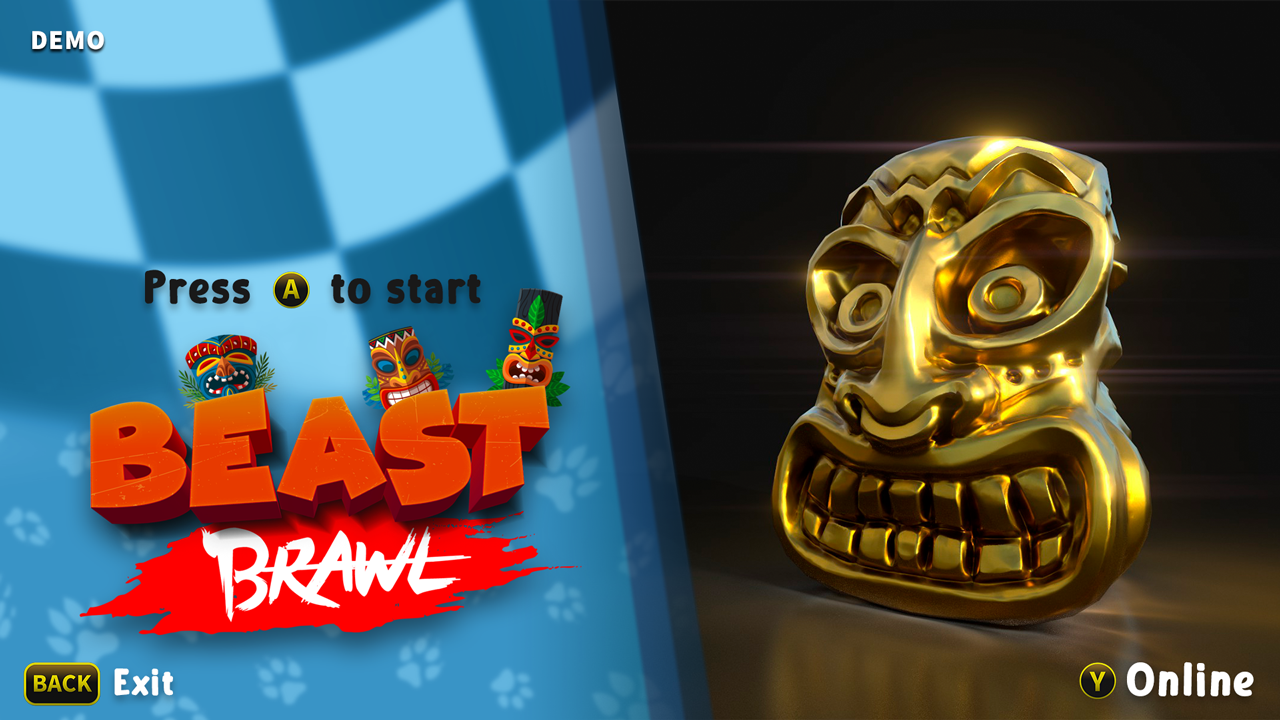
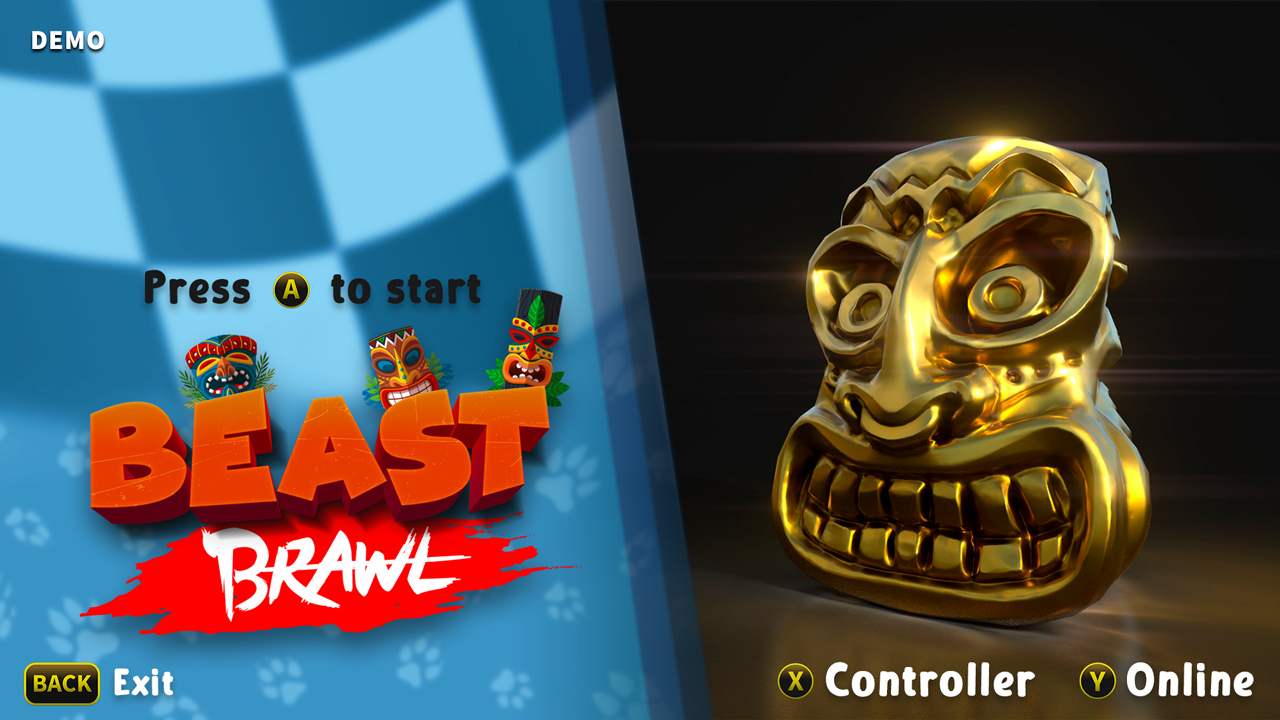
v0.97 - Mini cambios Valencia

Changed region(s): [[0.5938, 0.9167, 0.8125, 0.9778]]

diff --git a/src/Facade/Render/RenderFacadeIrrlicht.cpp b/src/Facade/Render/RenderFacadeIrrlicht.cpp
@@ -102,6 +102,11 @@ void RenderFacadeIrrlicht::FacadeInitMenu() {
     driver->makeColorKeyTexture(menuBG, core::position2d<s32>(0, 0));
 }
 
+void RenderFacadeIrrlicht::FacadeInitControler() {
+    controlerBG = driver->getTexture("media/controller_scheme.png");
+    driver->makeColorKeyTexture(controlerBG, core::position2d<s32>(0, 0));
+}
+
 void RenderFacadeIrrlicht::FacadeInitPause() {
     pauseBG = driver->getTexture("media/pause_screen.png");
     driver->makeColorKeyTexture(pauseBG, core::position2d<s32>(0, 0));
@@ -317,7 +322,7 @@ const uint16_t RenderFacadeIrrlicht::FacadeAddObject(Entity* entity) {
         node->setPosition(core::vector3df(cTransformable->position.x, cTransformable->position.y, cTransformable->position.z));
         node->setRotation(core::vector3df(cTransformable->rotation.x, cTransformable->rotation.y, cTransformable->rotation.z));
         node->setScale(core::vector3df(cTransformable->scale.x, cTransformable->scale.y, cTransformable->scale.z));
-		//node->setMaterialTexture(0, driver->getTexture(path.c_str()));  //Obligado incluir el c_str() si no irrlicht no carga solo con un string
+        //node->setMaterialTexture(0, driver->getTexture(path.c_str()));  //Obligado incluir el c_str() si no irrlicht no carga solo con un string
         node->setMaterialFlag(video::EMF_LIGHTING, false);
 
         
@@ -819,6 +824,9 @@ void RenderFacadeIrrlicht::FacadeCheckInputMenu() {
     } else if ((receiver.IsKeyDown(KEY_KEY_M) || receiver.GetJoyStickState().IsButtonPressed(InputXBox::BUTTON_Y)) && !IsInputPressed(InputXBox::BUTTON_Y)) {
         smgr->clear();
         EventManager::GetInstance().AddEventMulti(Event{EventType::STATE_LOBBYMULTI});
+    }else if ((receiver.IsKeyDown(KEY_KEY_U) || receiver.GetJoyStickState().IsButtonPressed(InputXBox::BUTTON_X)) && !IsInputPressed(InputXBox::BUTTON_X)) {
+        smgr->clear();
+        EventManager::GetInstance().AddEventMulti(Event{EventType::STATE_CONTROLS});
     }
 
     if(!(receiver.IsKeyDown(KEY_SPACE) || receiver.GetJoyStickState().IsButtonPressed(InputXBox::BUTTON_A)))
@@ -827,7 +835,29 @@ void RenderFacadeIrrlicht::FacadeCheckInputMenu() {
         SetValueInput(InputXBox::BUTTON_BACK, false);
     if(!(receiver.IsKeyDown(KEY_KEY_M) || receiver.GetJoyStickState().IsButtonPressed(InputXBox::BUTTON_Y)))
         SetValueInput(InputXBox::BUTTON_Y, false);
+    if(!(receiver.IsKeyDown(KEY_KEY_U) || receiver.GetJoyStickState().IsButtonPressed(InputXBox::BUTTON_X)))
+        SetValueInput(InputXBox::BUTTON_X, false);
 }
+
+
+void RenderFacadeIrrlicht::FacadeCheckInputControler() {
+    if ((receiver.IsKeyDown(KEY_KEY_N) || receiver.GetJoyStickState().IsButtonPressed(InputXBox::BUTTON_B)) && !IsInputPressed(InputXBox::BUTTON_B)) {
+        SetValueInput(InputXBox::BUTTON_B, true);
+        smgr->clear();
+        //EventManager::GetInstance().ClearListeners();
+        //EventManager::GetInstance().ClearEvents();
+        //Game::GetInstance()->SetState(State::MENU);
+        cout << "ENTRAAAAAA pantalla\n";
+        EventManager::GetInstance().AddEventMulti(Event{EventType::STATE_MENU});
+    }else if(!(receiver.IsKeyDown(KEY_KEY_N) || receiver.GetJoyStickState().IsButtonPressed(InputXBox::BUTTON_B))){
+        SetValueInput(InputXBox::BUTTON_B, false);
+    }
+
+    if (receiver.IsKeyDown(KEY_DELETE)) {
+        device->closeDevice();
+    }
+}
+
 
 void RenderFacadeIrrlicht::FacadeCheckInputPause() {
     //Cambiamos a ingame
@@ -927,6 +957,15 @@ void RenderFacadeIrrlicht::FacadeDrawMenu() {
     driver->beginScene(true, true, video::SColor(255, 113, 113, 133));
     //smgr->drawAll();  // draw the 3d scene
     driver->draw2DImage(menuBG, core::position2d<s32>(0, 0),
+                        core::rect<s32>(0, 0, 1280, 720), 0,
+                        video::SColor(255, 255, 255, 255), false);
+    driver->endScene();
+}
+
+void RenderFacadeIrrlicht::FacadeDrawControler() {
+    driver->beginScene(true, true, video::SColor(255, 113, 113, 133));
+    //smgr->drawAll();  // draw the 3d scene
+    driver->draw2DImage(controlerBG, core::position2d<s32>(0, 0),
                         core::rect<s32>(0, 0, 1280, 720), 0,
                         video::SColor(255, 255, 255, 255), false);
     driver->endScene();

diff --git a/src/Game.cpp b/src/Game.cpp
@@ -6,6 +6,7 @@
 #include "State/StateLobbyMulti.h"
 #include "State/StateMenu.h"
 #include "State/StatePause.h"
+#include "State/StateControls.h"
 #include <Constants.h>
 
 
@@ -36,7 +37,12 @@ void Game::SetState(State::States stateType) {
             gameStarted = false;
             break;
         case State::CONTROLS:
-            //currentState = new StateControls();
+            EventManager::GetInstance().ClearEvents();
+            EventManager::GetInstance().ClearListeners();
+            currentState = make_shared<StateControls>();
+            gameState.reset();
+            SuscribeEvents();
+            gameStarted = false;
             break;
         case State::CREDITS:
             //currentState = new StateCredits();
@@ -151,6 +157,11 @@ void Game::SuscribeEvents() {
         EventType::STATE_LOBBYMULTI,
         bind(&Game::SetStateLobbyMulti, this, placeholders::_1),
         "SetStateLobbyMulti"));
+
+    EventManager::GetInstance().SubscribeMulti(Listener(
+        EventType::STATE_CONTROLS,
+        bind(&Game::SetStateControls, this, placeholders::_1),
+        "SetStateControls"));
 }
 
 void Game::MainLoop() {
@@ -230,4 +241,8 @@ void Game::SetStateEndRace(DataMap* d) {
 
 void Game::SetStateLobbyMulti(DataMap* d) {
     SetState(State::LOBBY_MULTI);
+}
+
+void Game::SetStateControls(DataMap* d){
+    SetState(State::CONTROLS);
 }

diff --git a/src/Facade/Render/RenderFacadeIrrlicht.h b/src/Facade/Render/RenderFacadeIrrlicht.h
@@ -45,15 +45,18 @@ class RenderFacadeIrrlicht : public RenderFacade {
     void FacadeDrawPause() override;
     void FacadeDrawEndRace() override;
     void FacadeDrawLobbyMulti() override;
+    void FacadeDrawControler() override;
     void FacadeInitMenu() override;
     void FacadeInitPause() override;
     void FacadeInitEndRace() override;
     void FacadeInitLobbyMulti() override;
+    void FacadeInitControler() override;
     void FacadeInitHUD() override;
     void FacadeCheckInputMenu() override;
     void FacadeCheckInputPause() override;
     void FacadeCheckInputEndRace() override;
     void FacadeCheckInputLobbyMulti() override;
+    void FacadeCheckInputControler() override;
     void FacadeUpdatePowerUpHUD(DataMap* d) override;
     void FacadeDrawHUD(Entity* car, ManCar* manCars) override;
     void FacadeSuscribeEvents() override;
@@ -93,6 +96,7 @@ class RenderFacadeIrrlicht : public RenderFacade {
     scene::ICameraSceneNode* camera1;
     MyEventReceiver receiver;
     video::ITexture* menuBG;
+    video::ITexture* controlerBG;
     video::ITexture* pauseBG;
     video::ITexture* endRaceBG;
     video::ITexture* lobbyMultBG;

diff --git a/src/State/StateControls.cpp b/src/State/StateControls.cpp
@@ -1,0 +1,42 @@
+#include "StateControls.h"
+#include <iostream>
+
+using namespace std;
+
+StateControls::StateControls(){
+
+    std::cout << "> MENU constructor" << std::endl;
+
+    renderEngine = RenderFacadeManager::GetInstance()->GetRenderFacade();
+    renderEngine->FacadeInitControler();
+
+}
+
+// Cargamos los bancos de sonido Menu.
+void StateControls::InitState() {
+    
+    cout << "~~~ ENTRO A MENU" << endl;
+    if (!soundEngine){
+        soundEngine = SoundFacadeManager::GetInstance()->GetSoundFacade();
+        cout << "~~~ SoundEngine en MENU es -> " << soundEngine << endl;
+    }
+    soundEngine->SetState(2);
+    soundEngine->PlayEvent("Musica/menu");
+
+    //cout << "> MENU iniciado" << endl;
+}
+
+
+void StateControls::Render(){
+    renderEngine->FacadeDrawControler();
+}
+
+
+void StateControls::Input(){
+    renderEngine->FacadeCheckInputControler();
+}
+
+
+void StateControls::Update(){
+    EventManager::GetInstance().Update();
+}

diff --git a/src/Facade/Render/RenderFacadeClover.h b/src/Facade/Render/RenderFacadeClover.h
@@ -43,15 +43,18 @@ class RenderFacadeClover : public RenderFacade {
       void FacadeDrawPause() override;
       void FacadeDrawEndRace() override;
       void FacadeDrawLobbyMulti() override;
+      void FacadeDrawControler() override;
       void FacadeInitMenu() override;
       void FacadeInitPause() override;
       void FacadeInitEndRace() override;
       void FacadeInitLobbyMulti() override;
+      void FacadeInitControler() override;
       void FacadeInitHUD() override;
       void FacadeCheckInputMenu() override;
       void FacadeCheckInputPause() override;
       void FacadeCheckInputEndRace() override;
       void FacadeCheckInputLobbyMulti() override;
+      void FacadeCheckInputControler() override;
       void FacadeUpdatePowerUpHUD(DataMap* d) override;
       void FacadeDrawHUD(Entity* car, ManCar* manCars) override;
       void FacadeSuscribeEvents() override;

diff --git a/src/Facade/Render/RenderFacade.h b/src/Facade/Render/RenderFacade.h
@@ -42,15 +42,18 @@ class RenderFacade {
     virtual void FacadeDrawPause() = 0;
     virtual void FacadeDrawEndRace() = 0;
     virtual void FacadeDrawLobbyMulti() = 0;
+    virtual void FacadeDrawControler() = 0;
     virtual void FacadeInitMenu() = 0;
     virtual void FacadeInitPause() = 0;
     virtual void FacadeInitEndRace() = 0;
     virtual void FacadeInitLobbyMulti() = 0;
+    virtual void FacadeInitControler() = 0;
     virtual void FacadeInitHUD() = 0;
     virtual void FacadeCheckInputMenu() = 0;
     virtual void FacadeCheckInputPause() = 0;
     virtual void FacadeCheckInputEndRace() = 0;
     virtual void FacadeCheckInputLobbyMulti() = 0;
+    virtual void FacadeCheckInputControler() = 0;
     virtual void FacadeUpdatePowerUpHUD(DataMap* d) = 0;
     virtual void FacadeDrawHUD(Entity* car, ManCar* manCars) = 0;
     virtual void FacadeSuscribeEvents() = 0;

diff --git a/src/State/StateControls.h b/src/State/StateControls.h
@@ -1,0 +1,33 @@
+#pragma once
+
+#include "State.h"
+
+#include <EventManager/EventManager.h>
+#include <Facade/Input/InputFacadeManager.h>
+#include <Facade/Physics/PhysicsFacadeManager.h>
+#include <Facade/Render/RenderFacadeManager.h>
+#include <Facade/Sound/SoundFacadeManager.h>
+
+
+
+class StateControls : public State{
+    public:
+        StateControls();
+        ~StateControls() = default;
+        void Input() override;
+        void InitState() override;
+        void Update() override;
+        void Render() override;
+        States GetState() { return State::States::CONTROLS; };
+
+
+    private:
+        RenderFacade* renderEngine = { nullptr };
+        //InputFacade* inputEngine = { nullptr };
+        //PhysicsFacade* physicsEngine = { nullptr };
+        SoundFacade* soundEngine = { nullptr };
+
+
+	
+};
+

diff --git a/src/Facade/Render/RenderFacadeClover.cpp b/src/Facade/Render/RenderFacadeClover.cpp
@@ -81,6 +81,10 @@ void RenderFacadeClover::FacadeInitMenu() {
     
 }
 
+void RenderFacadeClover::FacadeInitControler() {
+    
+}
+
 /**
  * Inicializa las cosas para el pause
  */
@@ -452,6 +456,9 @@ vector<Constants::InputTypes> RenderFacadeClover::FacadeCheckInputMulti() {
 void RenderFacadeClover::FacadeCheckInputMenu() {
 }
 
+void RenderFacadeClover::FacadeCheckInputControler() {
+}
+
 void RenderFacadeClover::FacadeCheckInputPause() {
 }
 
@@ -489,6 +496,9 @@ void RenderFacadeClover::FacadeDraw() const{
  * Dibuja las cosas del menu
  */
 void RenderFacadeClover::FacadeDrawMenu() {
+}
+
+void RenderFacadeClover::FacadeDrawControler() {
 }
 
 /**

diff --git a/src/Game.h b/src/Game.h
@@ -29,6 +29,7 @@ class Game{
         void SetStateInGameMulti(DataMap* d);
         void SetStateEndRace(DataMap* d);
         void SetStateLobbyMulti(DataMap* d);
+        void SetStateControls(DataMap* d);
         
     
 

diff --git a/src/EventManager/Event.h b/src/EventManager/Event.h
@@ -75,6 +75,7 @@ enum EventType {
     STATE_INGAMESINGLE,
     STATE_INGAMEMULTI,
     STATE_LOBBYMULTI,
+    STATE_CONTROLS,
     CALCULATE_PATH_TO_NAVMESH,
     NEW_TCP_START_MULTI,
     NEW_INPUTS_RECEIVED,
